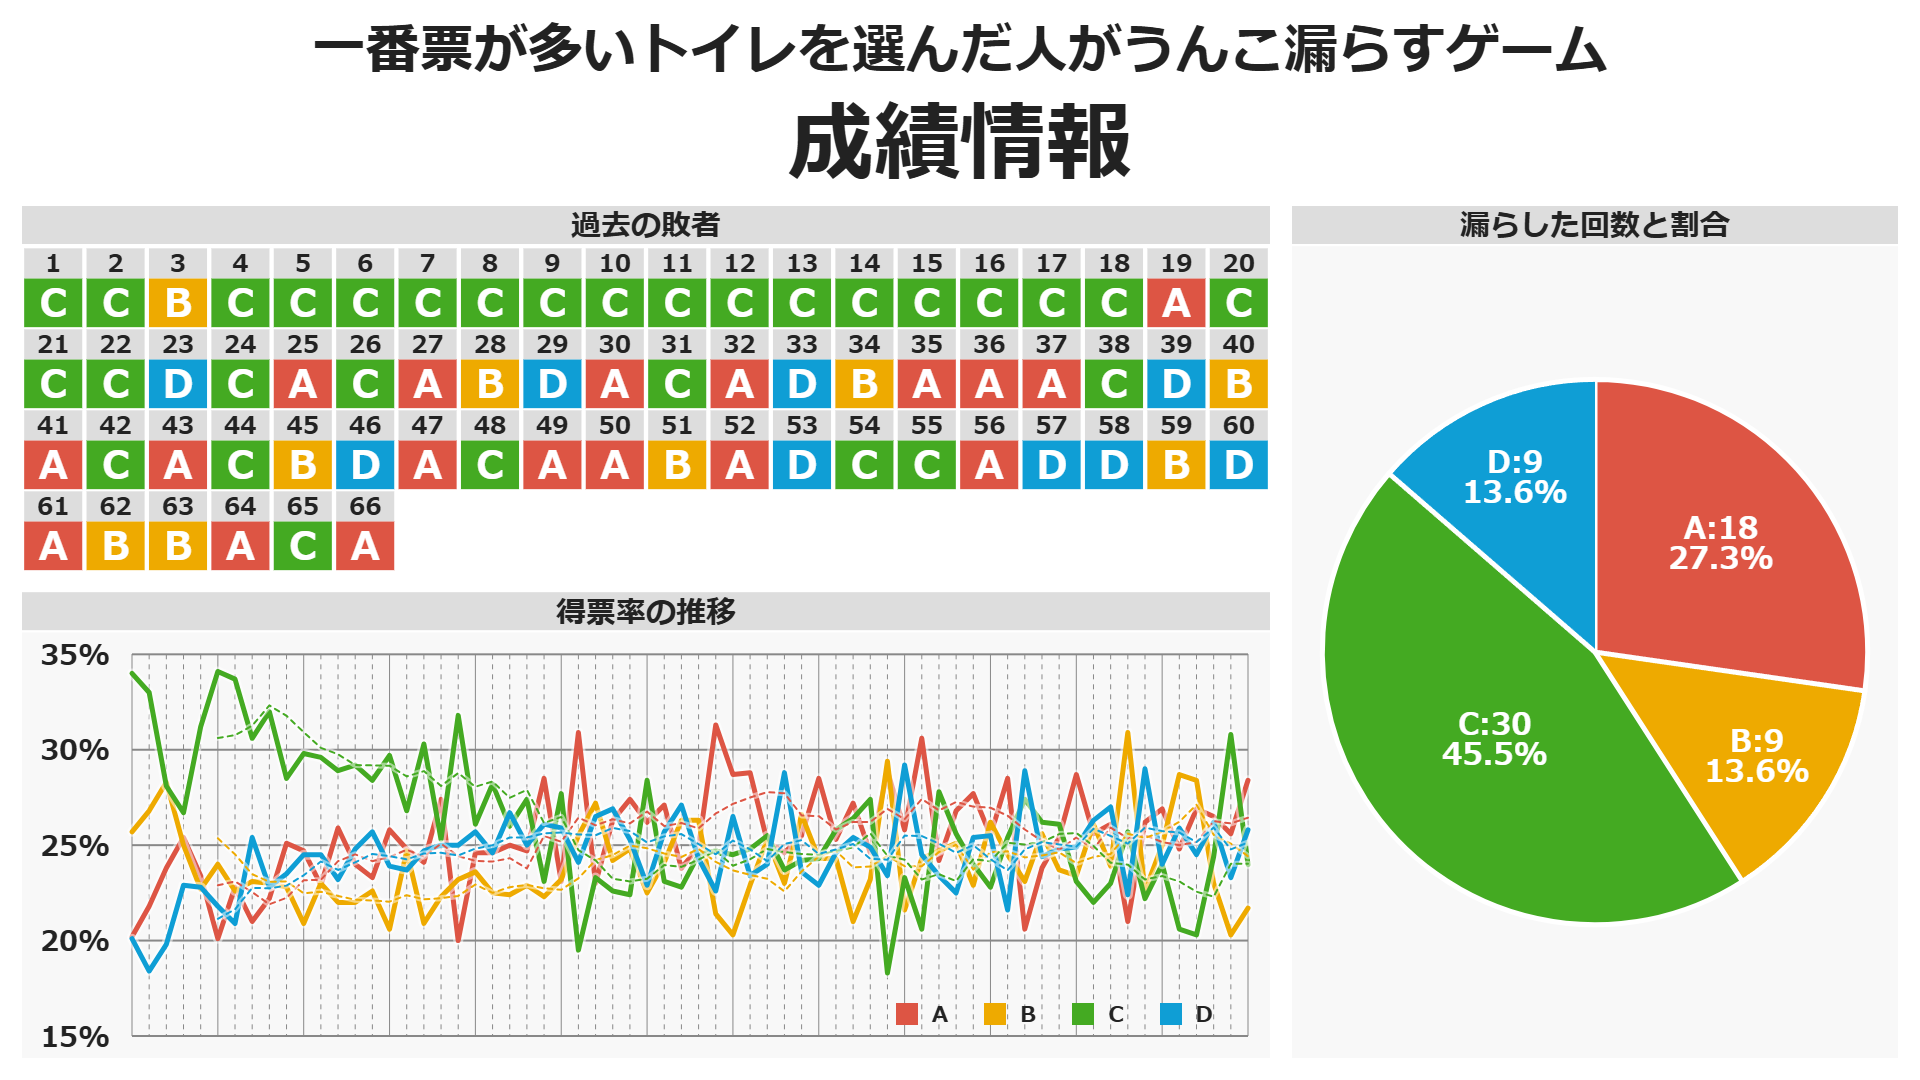
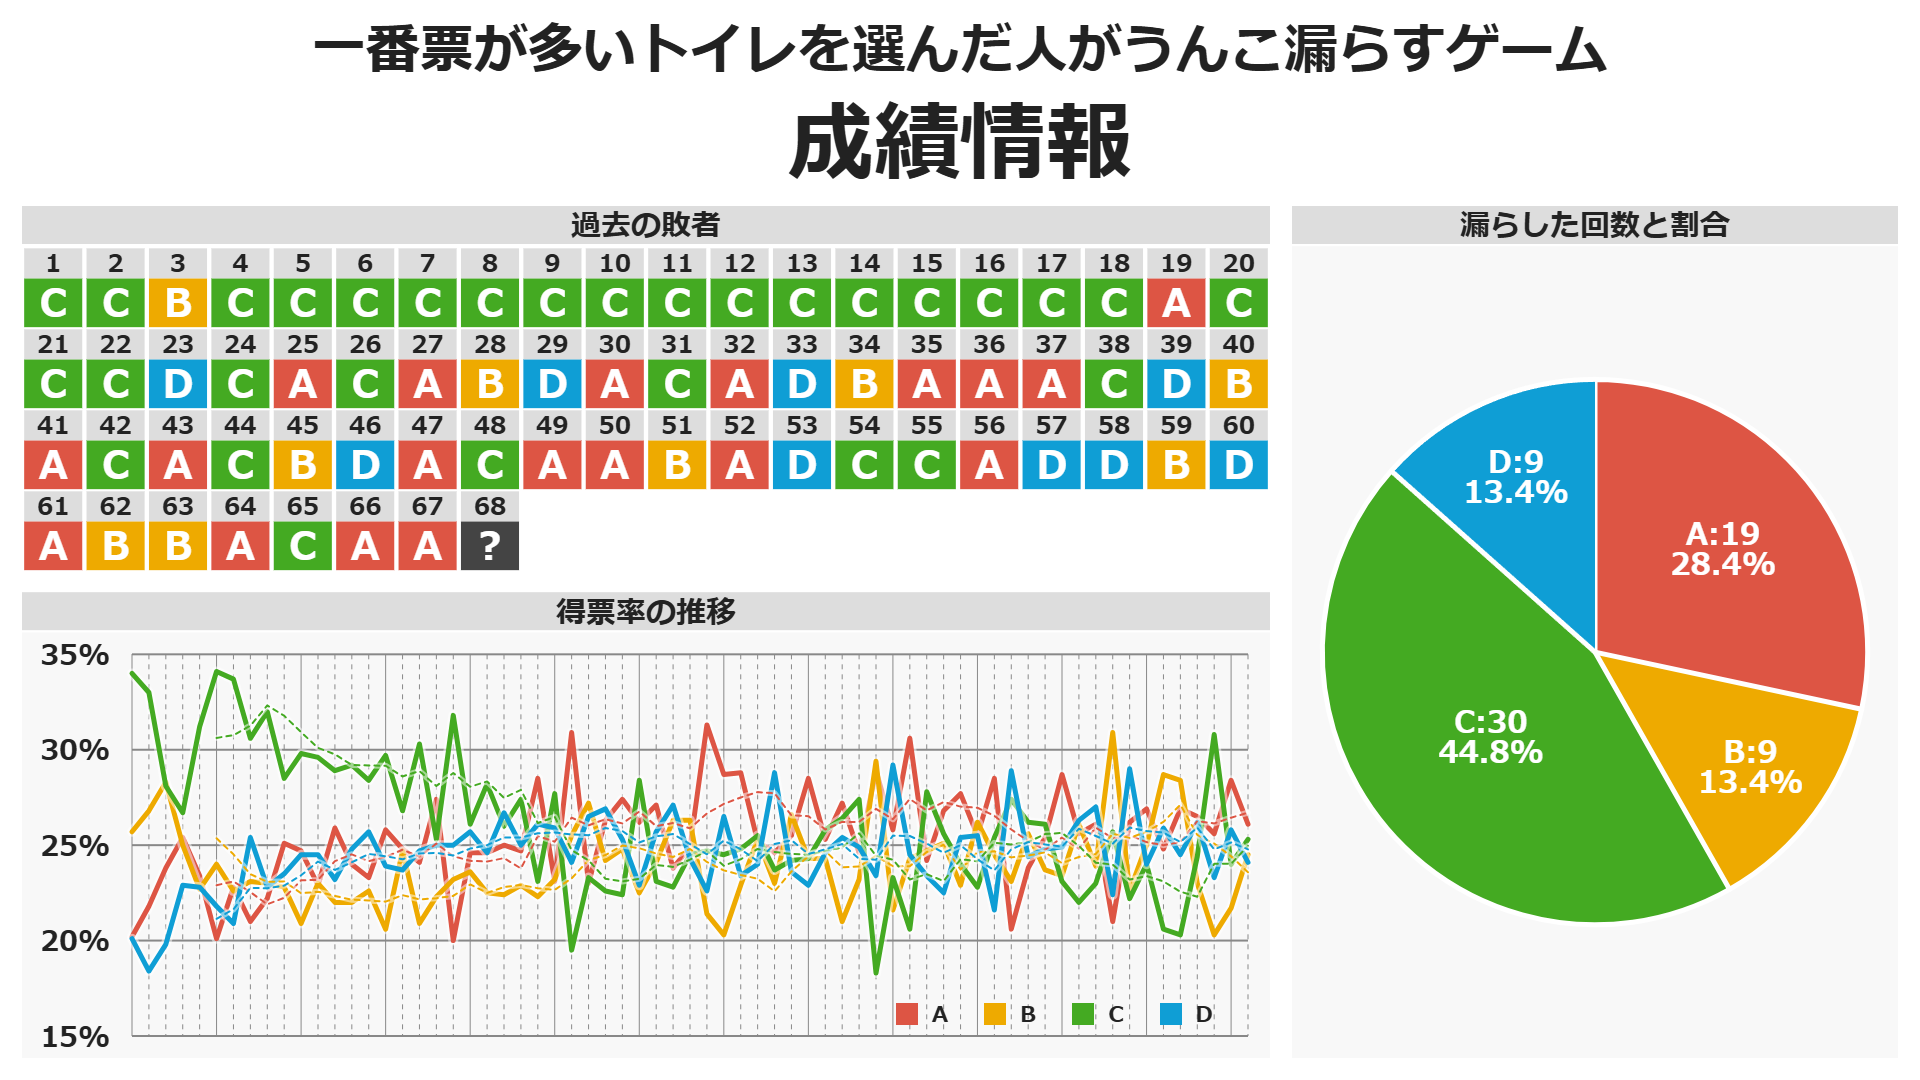
update

diff --git a/docs/index.html b/docs/index.html
@@ -12,7 +12,7 @@
     <meta property="og:url" content="https://shapoco.github.io/toilet-game/" />
     <meta property="og:title" content="4択トイレゲーム" />
     <meta property="og:description" content="一番票が多いトイレを選んだ人がうんこ漏らすゲーム" />
-    <meta property="og:image" content="https://shapoco.github.io/toilet-game/cover.png?20250215111100" />
+    <meta property="og:image" content="https://shapoco.github.io/toilet-game/cover.png?20250308134600" />
     
     <link rel="icon" href="https://shapoco.github.io/favicon192.png" sizes="192x192">
     <link rel="apple-touch-icon" href="https://shapoco.github.io/apple-touch-icon180.png" sizes="180x180">
@@ -36,8 +36,8 @@
     <style>
     </style>
     
-    <link rel="stylesheet" href="./style.css?20250222141600">
-    <script src="./toilet_game.js?20250222141600"></script>
+    <link rel="stylesheet" href="./style.css?20250308134600">
+    <script src="./toilet_game.js?20250308134600"></script>
 
     <title>4択トイレゲーム</title>
   </head>

diff --git a/docs/toilet_game.js b/docs/toilet_game.js
@@ -68,6 +68,7 @@ const DB = [
   { date: '2025-02-08', total: 427  , percent: [26.5, 23.0, 24.4, 26.2], url: 'https://x.com/shapoco/status/1888100432293282163' },
   { date: '2025-02-15', total: 344  , percent: [25.6, 20.3, 30.8, 23.3], url: 'https://x.com/shapoco/status/1890584503472505101' },
   { date: '2025-02-22', total: 341  , percent: [28.4, 21.7, 24.0, 25.8], url: 'https://x.com/shapoco/status/1893169295603163576' },
-  { date: '2025-03-01', total: 0, percent: null, url: null },
+  { date: '2025-03-01', total: 261  , percent: [26.1, 24.5, 25.3, 24.1], url: 'https://x.com/shapoco/status/1895696487063175641' },
+  { date: '2025-03-08', total: 0, percent: null, url: null },
   //{ date: '2025-xx-xx', total: 0, percent: null, url: null },
 ];
